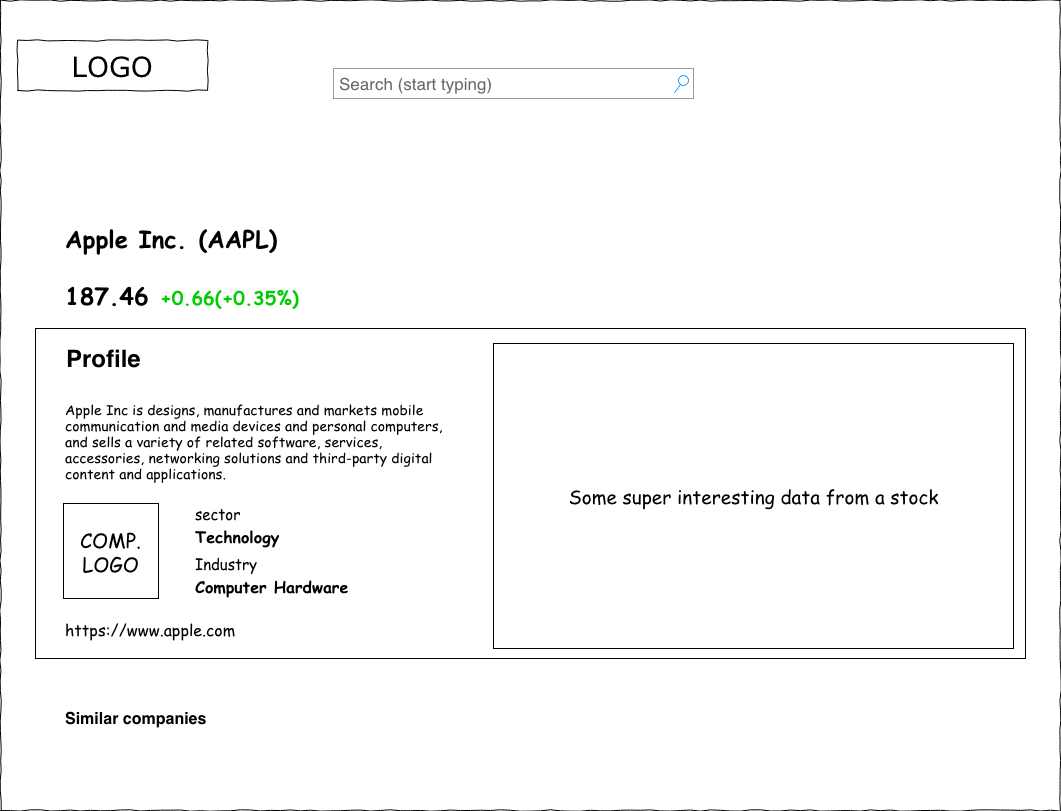
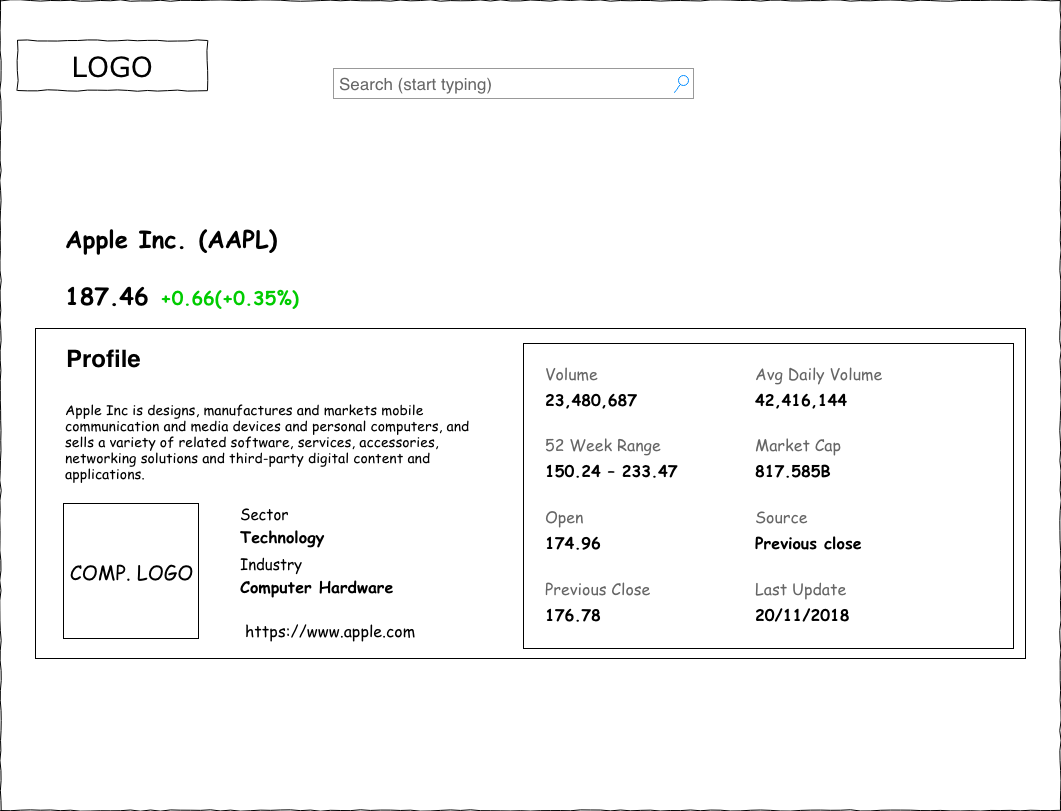
feat: add company widget mockup, update company page mockup

diff --git a/README.md b/README.md
@@ -18,9 +18,9 @@ You gonna build a SPA application (using Angular framework) which will communica
 
 #### 1. Landing page
 - User should be able to see search input with a placeholder
-- Bellow search input should be a groud of most active companies. Data could be fetched [from this end point](https://api.iextrading.com/1.0/stock/market/list/mostactive)
+- Bellow search input should be a section of gainer companies. Data could be fetched [from this end point](https://api.iextrading.com/1.0/stock/market/list/gainers)
 
-Basic mockup: 
+Basic mockup:  
 ![langing page image](challenge_search-main_screen.png)
 
 
@@ -31,9 +31,19 @@ Basic mockup:
 - user could choose a suggested company from a list (via keyboard or mouse)
 - user should be navigated to a company page if it were choosen
 
-Basic mockup: 
-![langing page image](challenge_search-search_autosuggets.png)
+Basic mockup:  
+![search autosuggest](challenge_search-search_autosuggets.png)
 
+#### 1.2 Company card
+
+- User should be able to see a:
+  - `symbol`
+  - `company name`
+  - `price change`
+  - `last price`
+
+Basic mockup:  
+![company widget](challenge_search-gainer_company.png)
 
 #### 2. Company page
 
@@ -45,5 +55,5 @@ Basic mockup:
   - company quote info [API docs](https://iextrading.com/developer/docs/#quote)
 
 
-Basic mockup: 
-![langing page image](challenge_search-_company_{symbol}.png)
+Basic mockup:  
+![company page](challenge_search-_company_{symbol}.png)
